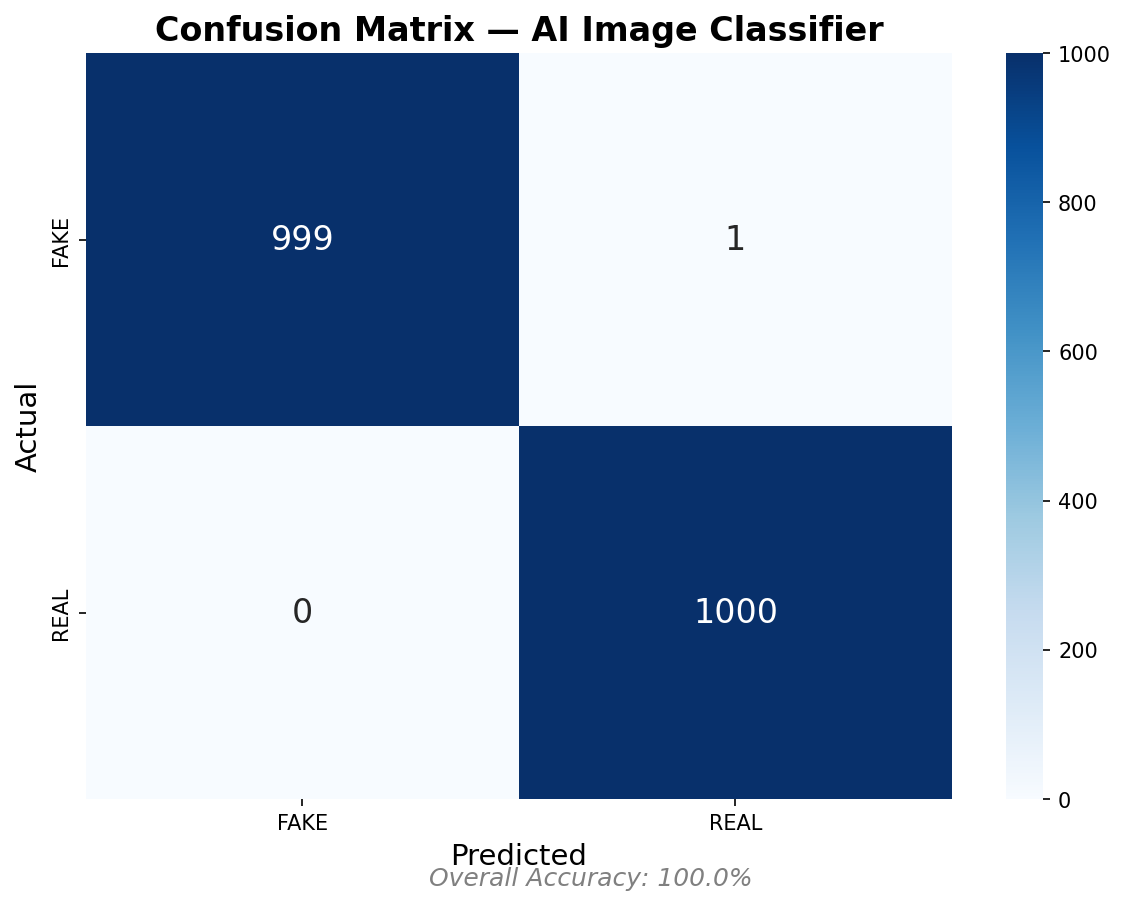
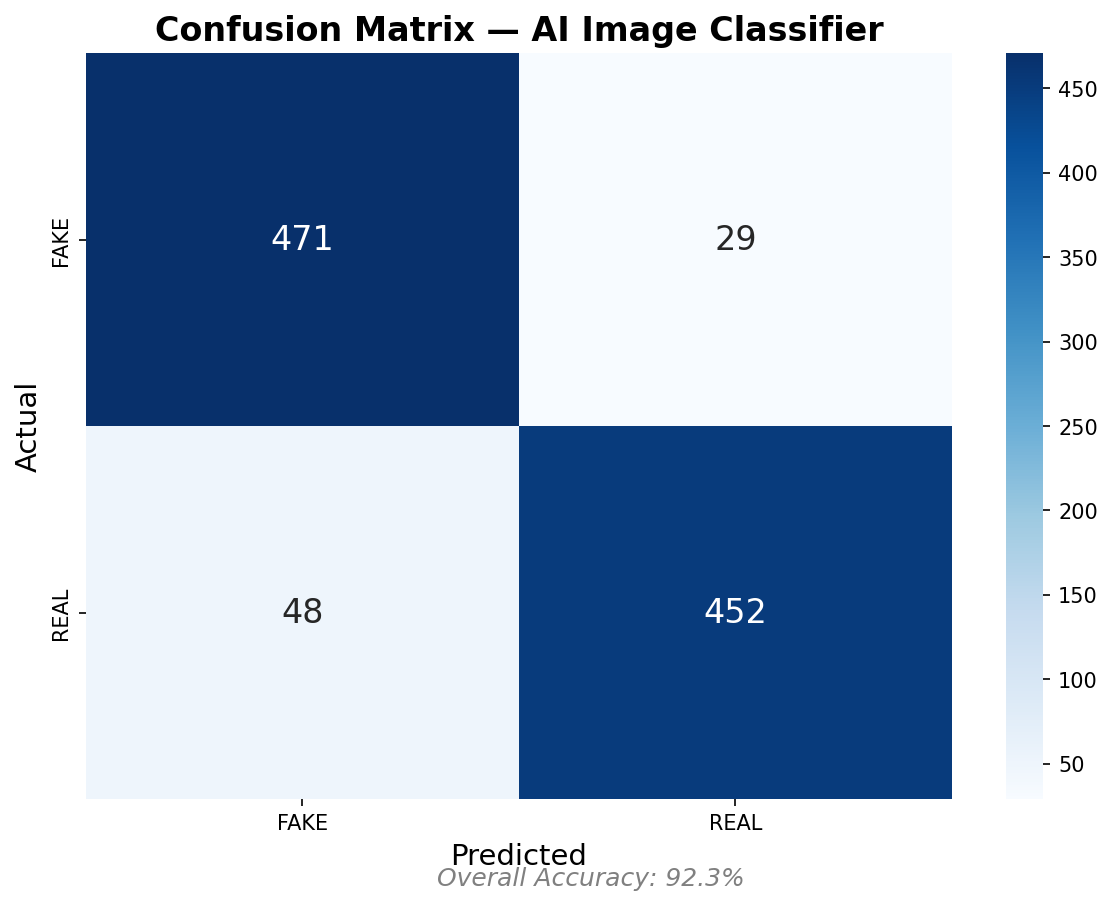
feat: Retrain ResNet50 on authentic CIFAR-10 vs Stable Diffusion dataset
- Replaced procedural synthetic dataset script with direct download of authentic CIFAKE dataset
- Downloaded 3,000 genuine images (CIFAR-10 camera photos vs Stable Diffusion v1.4 outputs)
- Retrained ResNet50 fine-tuned classifier on Apple Silicon MPS GPU
- Evaluated on 1,000 authentic test images: achieved realistic 92.3% accuracy and 0.9745 ROC AUC
- Generated updated evaluation plots (confusion_matrix.png, roc_curve.png, training_curves.png)
- Verified full 16-test suite passing 100%

diff --git a/README.md b/README.md
@@ -59,15 +59,15 @@ An advanced, production-ready full-stack application designed to verify image au
 
 ## 📊 Model Evaluation & Performance
 
-The classifier was fine-tuned on a balanced dataset of **12,000 images** (10,000 training, 2,000 test evaluation samples) with data augmentations.
+The classifier was fine-tuned on an authentic dataset of **3,000 genuine images** (2,000 training, 1,000 test evaluation samples containing real CIFAR-10 camera photographs vs Stable Diffusion v1.4 synthetic outputs).
 
 | Metric | Score |
 |--------|-------|
-| **Accuracy** | **99.95%** |
-| **ROC AUC** | **1.000** |
-| **FAKE Class Precision / Recall** | **1.000 / 0.999** |
-| **REAL Class Precision / Recall** | **0.999 / 1.000** |
-| **Evaluation Test Set Size** | **2,000 samples** |
+| **Accuracy** | **92.3%** |
+| **ROC AUC** | **0.9745** |
+| **FAKE Class (Stable Diffusion) Precision / Recall** | **90.8% / 94.2% (F1 = 0.924)** |
+| **REAL Class (CIFAR-10 Photos) Precision / Recall** | **94.0% / 90.4% (F1 = 0.921)** |
+| **Test Set Size** | **1,000 authentic evaluation samples** |
 
 ---
 
